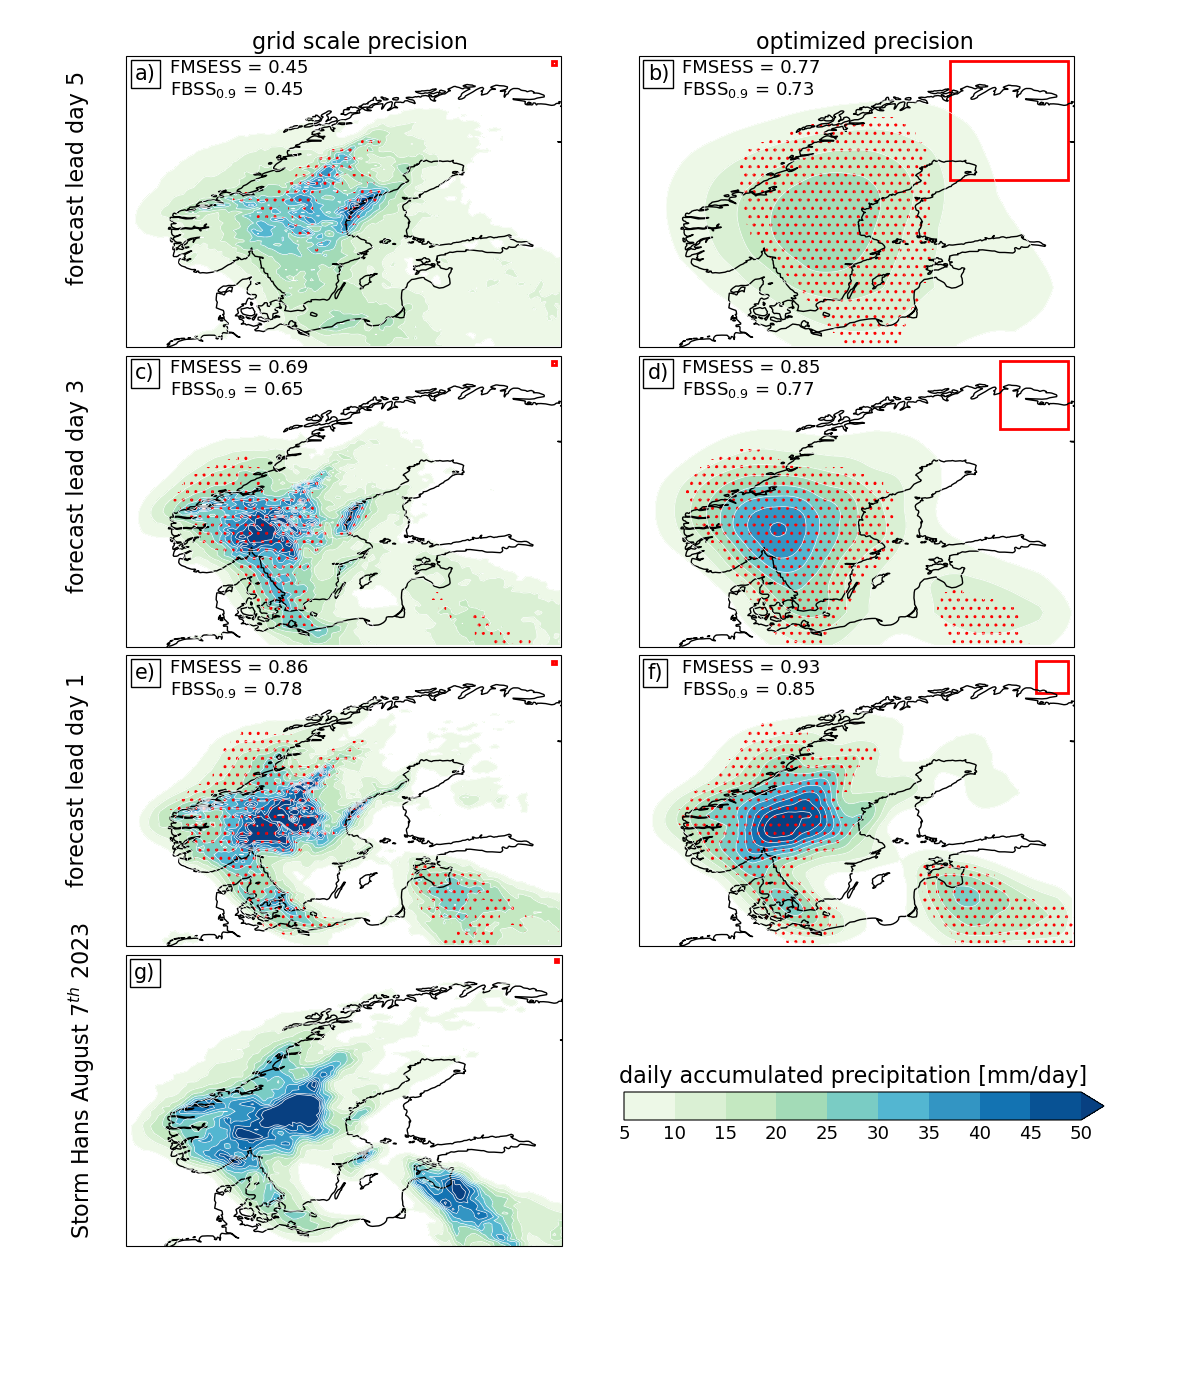
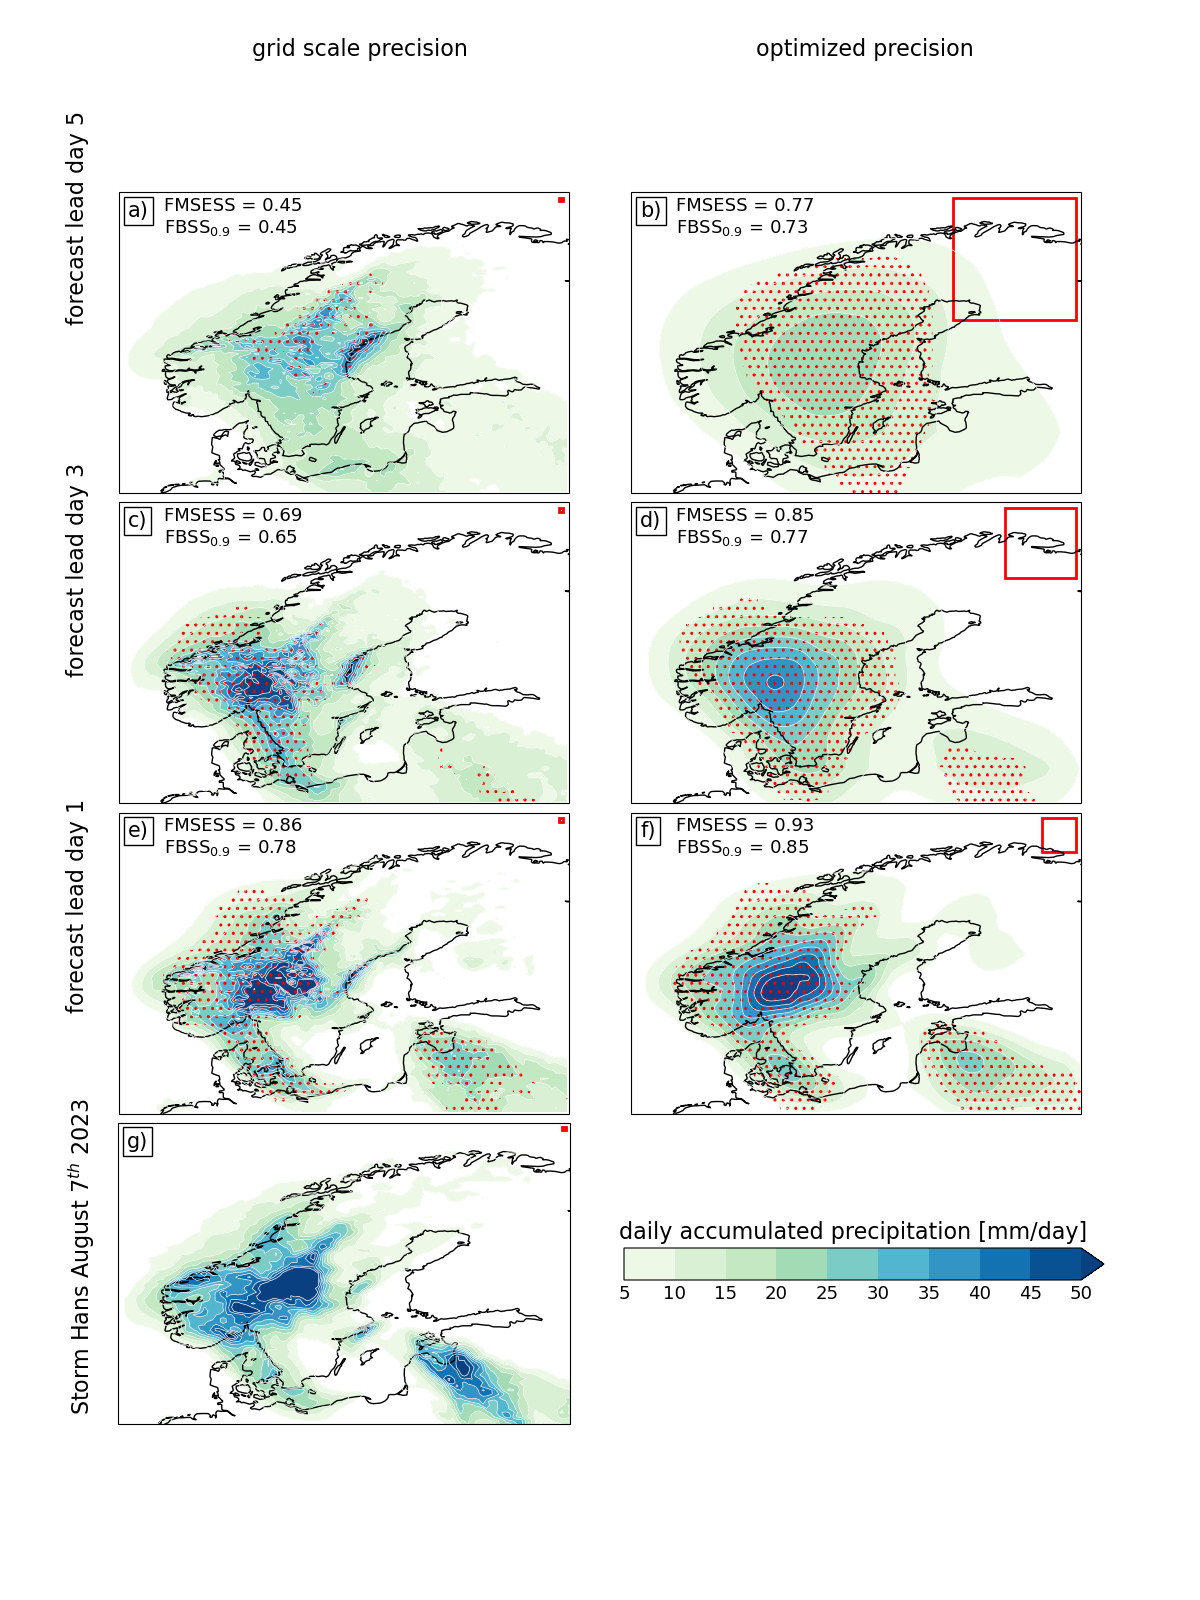
update

diff --git a/code/plot/test.py b/code/plot/test.py
@@ -85,11 +85,12 @@ da7[variable] = da7[variable]*1000
 fontsize = 11
 clevs    = np.arange(5,55,5)
 cmap     = 'GnBu'
-figsize  = np.array([12,14])
+figsize  = np.array([12,16])
 fig,ax   = plt.subplots(nrows=4,ncols=2,figsize=(figsize[0],figsize[1]),subplot_kw={'projection': ccrs.PlateCarree(central_longitude=0.0)})
 ax       = ax.ravel()
 
-fig.subplots_adjust(right=0.925, left=0.075,top=0.96,hspace=0.03,wspace=0.01)
+#fig.subplots_adjust(right=0.925, left=0.075,top=0.96,hspace=0.03,wspace=0.01)
+fig.subplots_adjust(right=0.925, left=0.075,hspace=0.03,wspace=0.01)
 
 title1 = r'a) 1 gridpoint$^2$ precision'
 title2 = r'b) 33 gridpoint$^2$ precision'
